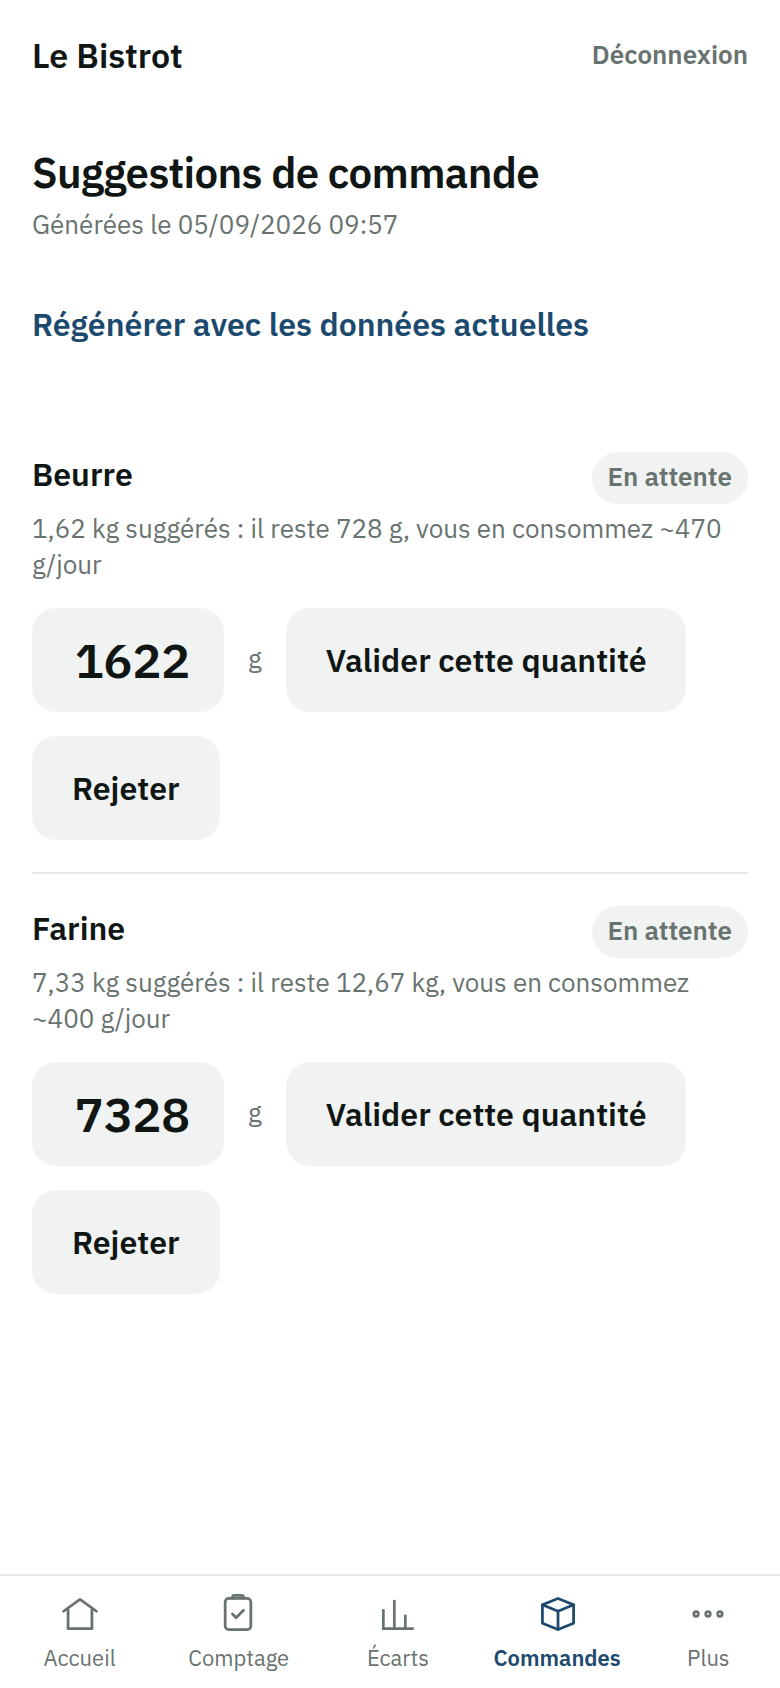
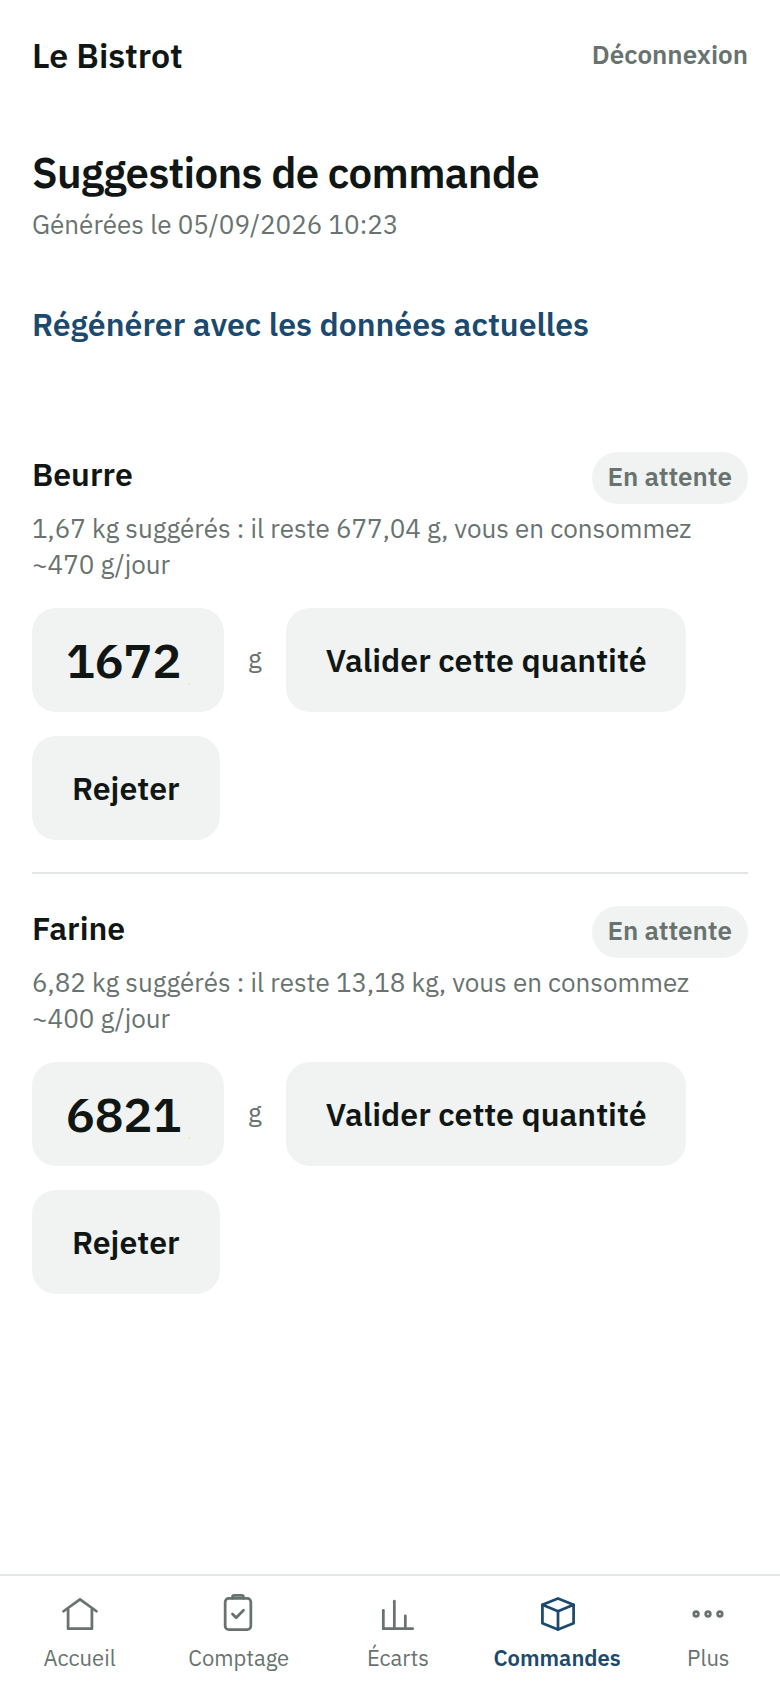
Corrige : une suggestion de commande en attente restait au stock d'avant comptage
Signalé en comparant les captures /commandes et /écarts générées à la même
seconde : Beurre affichait « il reste 728 g » sur les suggestions, mais
728 g → 677,04 g comptés sur les écarts du même comptage. generate_suggestions
fige current_stock/suggested_quantity au moment de la génération du lot ;
complete_count_session recale bien le stock théorique de l'ingrédient, mais
ne touche jamais aux lignes de suggestion déjà générées, et decide_suggestion_line
ne revérifie rien à la validation. Une ligne encore « en attente » pouvait
donc sous-estimer un manque réel jusqu'à ce que quelqu'un pense à cliquer sur
« Régénérer avec les données actuelles » — rien ne signalait l'écart.

Ajoute ordering.refresh_pending_line, appelé sur chaque ligne en attente à
chaque affichage de /orders/{id} : resynchronise current_stock, conso.
moyenne, seuil et quantité suggérée sur l'état actuel de l'ingrédient.
Une ligne déjà décidée (acceptée/modifiée/rejetée) n'est jamais retouchée —
c'est un fait historique, pas une suggestion à corriger après coup.

Claude-Session: https://claude.ai/code/session_019Y74BRF5KdX4Xyzt6R4ve8

diff --git a/restaurant-stock/tests/test_ordering.py b/restaurant-stock/tests/test_ordering.py
@@ -96,3 +96,104 @@ def test_decide_suggestion_line_records_manager_choice(db_session):
     assert updated.final_quantity == 5
     assert updated.decision == models.SuggestionDecision.MODIFIEE
     assert updated.validated_at is not None
+
+
+# ==========================================================================
+# Signalé sur les captures du second correctif V1.2 : une ligne « en
+# attente » gardait le stock du moment de la GÉNÉRATION du lot, jamais
+# resynchronisé avec un comptage terminé depuis (qui recale le stock
+# théorique sans jamais toucher les lignes déjà générées). Une suggestion
+# affichée pouvait donc sous-estimer un manque réel — l'inverse de ce que
+# l'outil doit éviter.
+# ==========================================================================
+def test_refresh_pending_line_updates_stale_current_stock_and_suggested_quantity(db_session):
+    ing = _ingredient(db_session, "Beurre", current_stock=728)
+    _record_sale_history(db_session, ing, 3290, days_ago=3)  # 470 g/jour sur 7 jours
+    settings_service.update_settings(
+        db_session, safety_days=2, target_days=5, rolling_window_days=7
+    )
+    batch = ordering.generate_suggestions(db_session)
+    line = batch.lines[0]
+    assert line.current_stock == 728
+    ancienne_suggestion = line.suggested_quantity
+
+    # Un comptage termine après la génération : le stock théorique est
+    # recalé à la baisse (perte constatée), la ligne en attente ne le sait
+    # pas encore tant qu'elle n'a pas été rafraîchie.
+    ing.current_theoretical_stock = 677.04
+    db_session.commit()
+
+    refreshed = ordering.refresh_pending_line(db_session, line)
+
+    assert refreshed.current_stock == 677.04, "le stock affiché doit être celui d'après recalage"
+    assert refreshed.suggested_quantity > ancienne_suggestion, (
+        "un manque plus important après recalage doit augmenter la quantité suggérée, "
+        "pas la laisser sous-estimée"
+    )
+
+
+def test_refresh_pending_line_zeroes_out_a_shortage_resolved_since_generation(db_session):
+    ing = _ingredient(db_session, "Vin rouge", current_stock=8, alert_threshold=10)
+    batch = ordering.generate_suggestions(db_session)
+    line = batch.lines[0]
+    assert line.suggested_quantity == 2
+
+    # Le comptage trouve finalement plus de stock que prévu : le manque a disparu.
+    ing.current_theoretical_stock = 15
+    db_session.commit()
+
+    refreshed = ordering.refresh_pending_line(db_session, line)
+
+    assert refreshed.suggested_quantity == 0, (
+        "un manque résolu par le recalage ne doit plus suggérer de commander"
+    )
+
+
+def test_refresh_pending_line_never_touches_an_already_decided_line(db_session):
+    ing = _ingredient(db_session, "Vin rouge", current_stock=8, alert_threshold=10)
+    batch = ordering.generate_suggestions(db_session)
+    line = batch.lines[0]
+    ordering.decide_suggestion_line(
+        db_session, line.id, final_quantity=2, decision=models.SuggestionDecision.ACCEPTEE
+    )
+
+    ing.current_theoretical_stock = 100  # le manque a disparu depuis la décision
+    db_session.commit()
+
+    unchanged = ordering.refresh_pending_line(db_session, line)
+
+    assert unchanged.current_stock == 8, (
+        "une décision déjà validée est un fait historique, pas une suggestion à corriger après coup"
+    )
+    assert unchanged.suggested_quantity == 2
+    assert unchanged.final_quantity == 2
+
+
+def test_orders_screen_shows_post_count_stock_not_the_stale_generation_time_value(seeded_client):
+    """Reproduction bout en bout du scénario signalé : un lot de suggestions
+    généré, puis un comptage qui recale le stock à la baisse — l'écran
+    /orders/{id} doit refléter le nouveau stock au prochain affichage, pas
+    celui d'avant le comptage."""
+    from app.services import counting
+
+    client, sessions = seeded_client.client, seeded_client.session_factory
+    with sessions() as db:
+        settings_service.update_settings(
+            db, safety_days=2, target_days=5, rolling_window_days=7
+        )
+        beurre = _ingredient(db, "Beurre", current_stock=728)
+        _record_sale_history(db, beurre, 3290, days_ago=3)
+        batch = ordering.generate_suggestions(db)
+        batch_id = batch.id
+
+        session = counting.start_count_session(db, counted_by="Test")
+        ligne_beurre = next(l for l in session.lines if l.ingredient.name == "Beurre")
+        counting.confirm_count_line(db, ligne_beurre.id, counted_quantity=677.04)
+        for l in session.lines:
+            if l.id != ligne_beurre.id:
+                counting.confirm_count_line(db, l.id, counted_quantity=l.theoretical_quantity)
+        counting.complete_count_session(db, session.id)
+
+    page = client.get(f"/orders/{batch_id}").text
+    assert "il reste 677,04 g" in page, "l'écran affiche encore le stock d'avant comptage"
+    assert "il reste 728 g" not in page, "l'ancien stock, périmé depuis le comptage, ne doit plus apparaître"

diff --git a/restaurant-stock/app/services/ordering.py b/restaurant-stock/app/services/ordering.py
@@ -33,6 +33,27 @@ def rolling_avg_daily_consumption(
     return max(total_consumed, 0.0) / window_days
 
 
+def _suggestion_values(
+    db: Session, ingredient: models.Ingredient, settings: models.Settings
+) -> tuple[float, float, float]:
+    """(conso. moyenne/jour, seuil, quantité suggérée) pour CET ingrédient,
+    à l'instant présent. Suggested_quantity vaut 0 si le stock actuel est
+    déjà au-dessus du seuil — factorisé pour rester identique entre la
+    génération d'un lot et le rafraîchissement d'une ligne isolée."""
+    avg_daily = rolling_avg_daily_consumption(db, ingredient.id, settings.rolling_window_days)
+    threshold = (
+        ingredient.alert_threshold
+        if ingredient.alert_threshold is not None
+        else avg_daily * settings.safety_days
+    )
+    if ingredient.current_theoretical_stock >= threshold:
+        return avg_daily, threshold, 0.0
+    # Cible = au moins le seuil lui-même, davantage si la conso récente le justifie.
+    target_stock = max(avg_daily * settings.target_days, threshold)
+    suggested_quantity = max(target_stock - ingredient.current_theoretical_stock, 0.0)
+    return avg_daily, threshold, suggested_quantity
+
+
 def generate_suggestions(db: Session) -> models.OrderSuggestionBatch:
     settings = settings_service.get_settings(db)
     batch = models.OrderSuggestionBatch()
@@ -43,20 +64,7 @@ def generate_suggestions(db: Session) -> models.OrderSuggestionBatch:
         db.query(models.Ingredient).filter(models.Ingredient.is_active.is_(True)).all()
     )
     for ingredient in ingredients:
-        avg_daily = rolling_avg_daily_consumption(
-            db, ingredient.id, settings.rolling_window_days
-        )
-        threshold = (
-            ingredient.alert_threshold
-            if ingredient.alert_threshold is not None
-            else avg_daily * settings.safety_days
-        )
-        if ingredient.current_theoretical_stock >= threshold:
-            continue
-
-        # Cible = au moins le seuil lui-même, davantage si la conso récente le justifie.
-        target_stock = max(avg_daily * settings.target_days, threshold)
-        suggested_quantity = max(target_stock - ingredient.current_theoretical_stock, 0.0)
+        avg_daily, threshold, suggested_quantity = _suggestion_values(db, ingredient, settings)
         if suggested_quantity <= 0:
             continue
 
@@ -74,6 +82,28 @@ def generate_suggestions(db: Session) -> models.OrderSuggestionBatch:
     db.commit()
     db.refresh(batch)
     return batch
+
+
+def refresh_pending_line(db: Session, line: models.OrderSuggestionLine) -> models.OrderSuggestionLine:
+    """Une ligne encore en attente doit refléter le stock ACTUEL de son
+    ingrédient, pas celui du moment où le lot a été généré : un comptage
+    terminé depuis (recalage du stock théorique, section 3.4) change la
+    conclusion — à la baisse (le manque est pire que suggéré) comme à la
+    hausse (le manque a disparu). Rien ne prévenait de cet écart avant que
+    quelqu'un pense à cliquer sur « Régénérer avec les données actuelles ».
+    N'affecte jamais une ligne déjà décidée : une décision validée est un
+    fait historique, pas une suggestion à corriger après coup."""
+    if line.decision != models.SuggestionDecision.EN_ATTENTE:
+        return line
+    settings = settings_service.get_settings(db)
+    avg_daily, threshold, suggested_quantity = _suggestion_values(db, line.ingredient, settings)
+    line.current_stock = line.ingredient.current_theoretical_stock
+    line.avg_daily_consumption = avg_daily
+    line.threshold_used = threshold
+    line.suggested_quantity = suggested_quantity
+    db.commit()
+    db.refresh(line)
+    return line
 
 
 def decide_suggestion_line(

diff --git a/restaurant-stock/app/routers/orders.py b/restaurant-stock/app/routers/orders.py
@@ -47,6 +47,14 @@ def batch_detail(batch_id: int, request: Request, db: Session = Depends(get_db))
         .limit(10)
         .all()
     )
+    # Une ligne en attente reflète le stock du moment de la GÉNÉRATION du
+    # lot, pas forcément le stock actuel : un comptage recale le stock
+    # théorique sans jamais toucher les lignes déjà générées (section 3.4).
+    # On la resynchronise donc à chaque affichage, avant que quelqu'un ne
+    # valide une quantité calculée sur un chiffre devenu faux.
+    for line in batch.lines:
+        ordering.refresh_pending_line(db, line)
+
     lines = sorted(batch.lines, key=lambda line: line.ingredient.name)
     return templates.TemplateResponse(request,
         "orders/detail.html",
